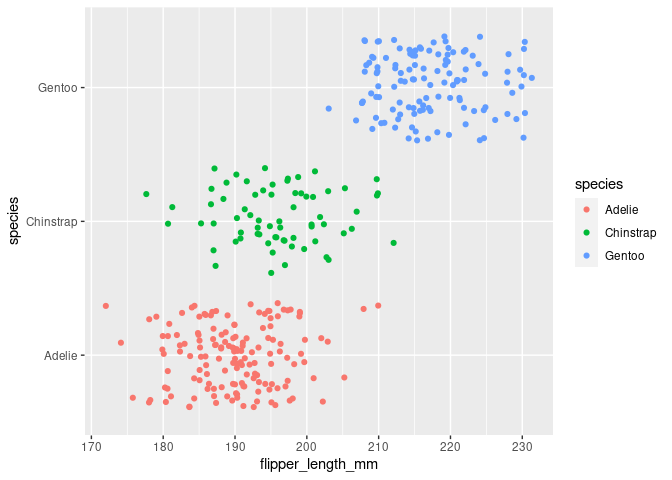
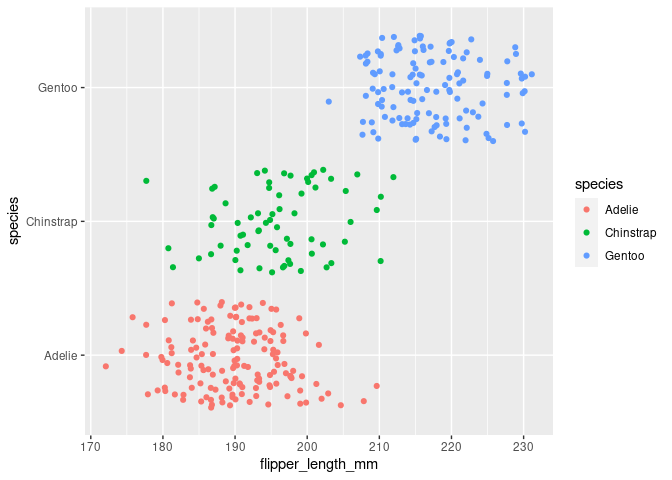
Completed the activity.

diff --git a/activity02-ggplot2-intro.md b/activity02-ggplot2-intro.md
@@ -342,16 +342,37 @@ exploring scatterplots using `{ggplot2}`.
 In the code chunk below, create a scatterplot for the relationship
 between `flipper_length_mm` and `body_mass_g`.
 
+``` r
+ggplot(data=penguins) +
+  geom_point(mapping=aes(x=flipper_length_mm, y=body_mass_g))
+```
+
+    ## Warning: Removed 2 rows containing missing values (geom_point).
+
+![](activity02-ggplot2-intro_files/figure-gfm/flipper_vs_mass-1.png)<!-- -->
+
 Describe any patterns that you notice.
 
-**Response**:
+**Response**: It appears that as flipper length increases, body mass
+increases.
 
 Recreate your scatterplot in the code chunk below; however, *map*
 `species` to the `color` and `shape` aesthetics.
 
+``` r
+ggplot(data=penguins) +
+  geom_point(mapping=aes(x=flipper_length_mm, y=body_mass_g, color=species, shape=species))
+```
+
+    ## Warning: Removed 2 rows containing missing values (geom_point).
+
+![](activity02-ggplot2-intro_files/figure-gfm/flipper_vs_mass_with_species-1.png)<!-- -->
+
 Describe any patterns that you notice.
 
-**Response**:
+**Response**: Adelie and Chinstrap appear to have similar distibutions
+and relationships. Gentoo has a greater positive relationship between
+flipper length and body mass as well as greater of the two in general.
 
 The previous plot looked great except even in this rather small dataset
 (n = 344), there might are a number of points overlapping. In the R code
@@ -360,9 +381,19 @@ aesthetic) of `size` (using some value larger than zero) and `alpha`
 (using some value between 0 and 1) to make your previous plot more
 effective.
 
+``` r
+ggplot(data=penguins) +
+  geom_point(mapping=aes(x=flipper_length_mm, y=body_mass_g, color=species, shape=species),  size=2, alpha=0.33)
+```
+
+    ## Warning: Removed 2 rows containing missing values (geom_point).
+
+![](activity02-ggplot2-intro_files/figure-gfm/flipper_vs_mass_with_size_alpha-1.png)<!-- -->
+
 Discuss the decisions you made to help your plot be easier to read.
 
-**Response**:
+**Response**: We are now able to see the density of different points, as
+well as if two different species overlap.
 
 Knit, stage, commit (with a meaningful commit message),and push
 everything in your **Git** pane to your GitHub repo. Go to GitHub and
